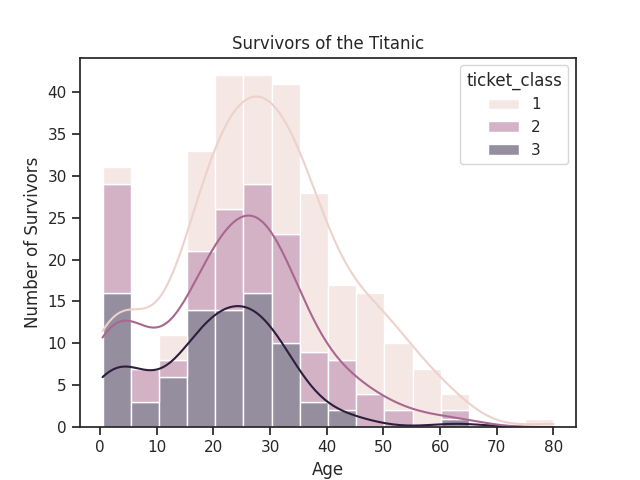
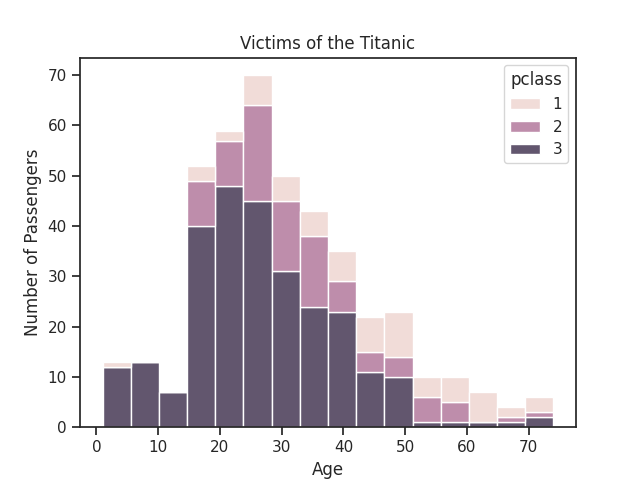
add boxplot

diff --git a/atividade_04/src/app/kde.py b/atividade_04/src/app/kde.py
@@ -1,0 +1,42 @@
+import seaborn as sns
+import matplotlib.pyplot as plt
+import polars as pl
+# from sklearn.preprocessing import LabelEncoder
+
+# survived      Survival                0 = No, 1 = Yes
+# pclass        Ticket class            1 = 1st, 2 = 2nd, 3 = 3rd
+# sex           Sex
+# age           Age in years
+# sibsp         # of siblings / spouses aboard the Titanic
+# parch         # of parents / children aboard the Titanic
+# ticket        Ticket number
+# fare          Passenger fare
+# cabin         Cabin number
+# embarked      Port of Embarkation     C = Cherbourg, Q = Queenstown, S = Southampton
+
+
+def main():
+    df = pl.scan_parquet("src/train.parquet")
+    sns.set_theme(style="ticks", palette="pastel")
+
+    victims = df.filter(pl.col("survived") == 0)
+
+    sns.histplot(
+        data=victims.collect(),
+        x="age",
+        kde=False,
+        hue="pclass",
+        multiple="stack",
+    )
+
+    #   Plots -----------------------------------------------------------------
+    plt.title("Victims of the Titanic")
+    plt.ylabel("Number of Passengers")
+    plt.xlabel("Age")
+
+    # Saving the file to be used on the README
+    plt.savefig("src/graphs/kde.png")
+
+
+if __name__ == "__main__":
+    main()

diff --git a/atividade_04/src/app/boxplot.py b/atividade_04/src/app/boxplot.py
@@ -19,27 +19,23 @@ def main():
     df = pl.scan_parquet("src/train.parquet")
     sns.set_theme(style="ticks", palette="pastel")
 
-    #   DataFrames ------------------------------------------------------------
-    survivors_age = df.filter(pl.col("survived") == 1).select(
-        pl.col("age").fill_nan(pl.mean("age")),
-        pl.col("pclass").alias("ticket_class"),
-    )
+    victims = df.filter(pl.col("survived") == 0)
 
-    sns.histplot(
-        data=survivors_age.collect(),
-        x="age",
-        kde=True,
-        hue="ticket_class",
-        multiple="stack",
+    sns.boxplot(
+        data=victims.collect(),
+        x="pclass",
+        y="age",
+        hue="sex",
+        gap=0.2,
     )
 
     #   Plots -----------------------------------------------------------------
-    plt.title("Survivors of the Titanic")
-    plt.ylabel("Number of Survivors")
-    plt.xlabel("Age")
+    plt.title("Victims of the Titanic")
+    plt.ylabel("Age")
+    plt.xlabel("Ticket Class")
 
     # Saving the file to be used on the README
-    plt.savefig("src/graphs/kde.png")
+    plt.savefig("src/graphs/boxplot.png")
 
 
 if __name__ == "__main__":

diff --git a/atividade_04/README.md b/atividade_04/README.md
@@ -3,3 +3,7 @@
 ## Histogram
 
 ![Survivors KDE](./src/graphs/kde.png)
+
+## Boxplot
+
+![Survivors Boxplot](./src/graphs/boxplot.png)
